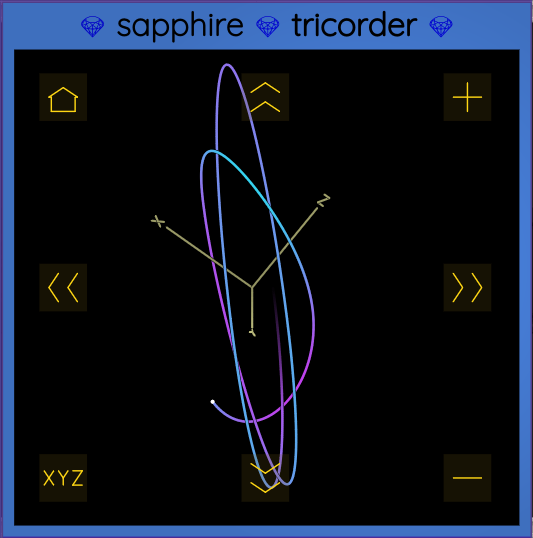
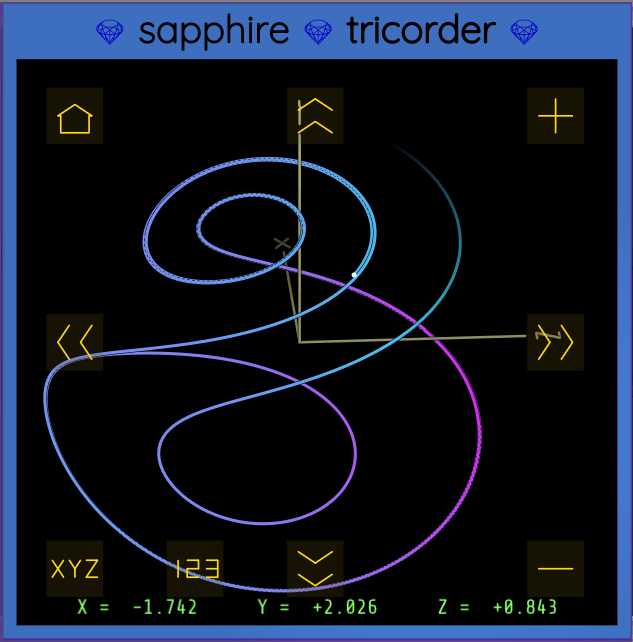
Tricorder: added a "123" button that toggles display of numeric voltages.

diff --git a/src/tricorder.cpp b/src/tricorder.cpp
@@ -35,6 +35,7 @@ namespace Sapphire
         const float BUTTON_WIDTH      = 0.10f * DISPLAY_SCALE;
         const float BUTTON_HEIGHT     = 0.10f * DISPLAY_SCALE;
         const float BUTTON_LEFT       = 0.05f * DISPLAY_MM_WIDTH;
+        const float BUTTON_LEFTCENTER = 0.25f * DISPLAY_MM_WIDTH;
         const float BUTTON_RIGHT      = 0.85f * DISPLAY_MM_WIDTH;
         const float BUTTON_CENTER     = 0.45f * DISPLAY_MM_WIDTH;
         const float BUTTON_TOP        = 0.05f * DISPLAY_MM_HEIGHT;
@@ -174,6 +175,7 @@ namespace Sapphire
             float yRadiansPerStep{};
             float xRadiansPerStep{};
             bool axesAreVisible{};
+            bool numbersAreVisible{};
             RotationMatrix orientation;
             const float defaultVoltageScale = 5.0f;
             float voltageScale{};
@@ -198,6 +200,7 @@ namespace Sapphire
             void initialize()
             {
                 axesAreVisible = true;
+                numbersAreVisible = true;
                 resetPointList();
                 resetPerspective();
                 selectRotationMode(-1, 0);
@@ -384,6 +387,7 @@ namespace Sapphire
 
                 // Save the XYZ axes visibility state.
                 json_object_set_new(root, "axesVisible", json_boolean(axesAreVisible));
+                json_object_set_new(root, "numbersVisible", json_boolean(numbersAreVisible));
 
                 // Save the zoom level (voltage scale).
                 json_object_set_new(root, "voltageScale", json_real(voltageScale));
@@ -411,6 +415,9 @@ namespace Sapphire
 
                 json_t* axesvis = json_object_get(root, "axesVisible");
                 axesAreVisible = !json_is_false(axesvis);
+
+                json_t* numvis = json_object_get(root, "numbersVisible");
+                numbersAreVisible = !json_is_false(numvis);
 
                 json_t* scale = json_object_get(root, "voltageScale");
                 if (json_is_number(scale))
@@ -477,7 +484,9 @@ namespace Sapphire
         void ResetPerspective(const TricorderDisplay&);
         void SelectRotationMode(const TricorderDisplay&, int longitudeDirection, int latitudeDirection);
         void ToggleAxisVisibility(const TricorderDisplay&);
+        void ToggleNumbersVisibility(const TricorderDisplay&);
         bool AxesAreVisible(const TricorderDisplay&);
+        bool NumbersAreVisible(const TricorderDisplay& display);
         void AdjustZoom(const TricorderDisplay&, int adjust);
 
         struct TricorderButton : OpaqueWidget       // a mouse click target that appears when hovering over the TricorderDisplay
@@ -604,6 +613,45 @@ namespace Sapphire
                     line(args, 0.9, 0.65, 0.7, 0.65);
                     line(args, 0.7, 0.65, 0.9, 0.35);
                     line(args, 0.7, 0.35, 0.9, 0.35);
+                }
+            }
+        };
+
+
+        struct TricorderButton_ToggleNumbers : TricorderButton
+        {
+            explicit TricorderButton_ToggleNumbers(TricorderDisplay& _display)
+                : TricorderButton(_display, BUTTON_LEFTCENTER, BUTTON_BOTTOM)
+                {}
+
+            void onButtonClick() override
+            {
+                ToggleNumbersVisibility(display);
+            }
+
+            void drawLayer(const DrawArgs& args, int layer) override
+            {
+                TricorderButton::drawLayer(args, layer);
+                if (layer==1 && isButtonVisible())
+                {
+                    float dx = -0.04;
+
+                    // The numeral 1
+                    line(args, 0.2+dx, 0.35, 0.2+dx, 0.65);
+
+                    // The numeral 2
+                    float ex = dx - 0.04;
+                    line(args, 0.4+ex, 0.35, 0.6+ex, 0.35);
+                    line(args, 0.6+ex, 0.35, 0.6+ex, 0.50);
+                    line(args, 0.6+ex, 0.50, 0.4+ex, 0.50);
+                    line(args, 0.4+ex, 0.50, 0.4+ex, 0.65);
+                    line(args, 0.4+ex, 0.65, 0.6+ex, 0.65);
+
+                    // The numeral 3
+                    line(args, 0.7+dx, 0.65, 0.9+dx, 0.65);
+                    line(args, 0.9+dx, 0.65, 0.9+dx, 0.35);
+                    line(args, 0.9+dx, 0.35, 0.7+dx, 0.35);
+                    line(args, 0.9+dx, 0.50, 0.7+dx, 0.50);
                 }
             }
         };
@@ -803,6 +851,7 @@ namespace Sapphire
                 box.pos = mm2px(Vec(DISPLAY_MM_MARGIN, mmTopMargin));
                 box.size = mm2px(Vec(DISPLAY_MM_WIDTH, DISPLAY_MM_HEIGHT));
                 addButton(new TricorderButton_ToggleAxes(*this));
+                addButton(new TricorderButton_ToggleNumbers(*this));
                 addButton(new TricorderButton_SpinRight(*this));
                 addButton(new TricorderButton_SpinLeft(*this));
                 addButton(new TricorderButton_SpinUp(*this));
@@ -841,8 +890,7 @@ namespace Sapphire
 
                 renderList.clear();
 
-                bool visibleAxes = AxesAreVisible(*this);
-                if (visibleAxes)
+                if (AxesAreVisible(*this))
                 {
                     const float r = 4.0f;
                     Point origin(0, 0, 0);
@@ -885,7 +933,7 @@ namespace Sapphire
                 Rect b = box.zeroPos();
                 nvgScissor(args.vg, RECT_ARGS(b));
                 render(args.vg, n);
-                if (visibleAxes)
+                if (NumbersAreVisible(*this))
                     displayVoltageNumbers(args.vg);
                 nvgResetScissor(args.vg);
                 nvgRestore(args.vg);
@@ -1324,9 +1372,22 @@ namespace Sapphire
         }
 
 
+        void ToggleNumbersVisibility(const TricorderDisplay& display)
+        {
+            if (display.module != nullptr)
+                display.module->numbersAreVisible = !display.module->numbersAreVisible;
+        }
+
+
         bool AxesAreVisible(const TricorderDisplay& display)
         {
             return (display.module != nullptr) && display.module->axesAreVisible;
+        }
+
+
+        bool NumbersAreVisible(const TricorderDisplay& display)
+        {
+            return (display.module != nullptr) && display.module->numbersAreVisible;
         }
 
 

diff --git a/Tricorder.md b/Tricorder.md
@@ -34,9 +34,10 @@ will appear:
 
 ![Tricorder controls](images/tricorder_controls.png)
 
-* The double-chevron symbols (&gt;&gt;) at the left, right, top, and bottom sides of the display 
+* The double-chevron symbols (&gt;&gt;) at the left, right, top, and bottom sides of the display
 allow rotating the animation in four different directions.
 * The XYZ button toggles whether coordinate axes are shown.
+* The 123 button toggles whether the voltage values are displayed as numbers at the bottom of the display.
 * The + and &minus; buttons zoom in and out.
 * The home button in the upper left corner resets the default orientation and zoom level.
 
